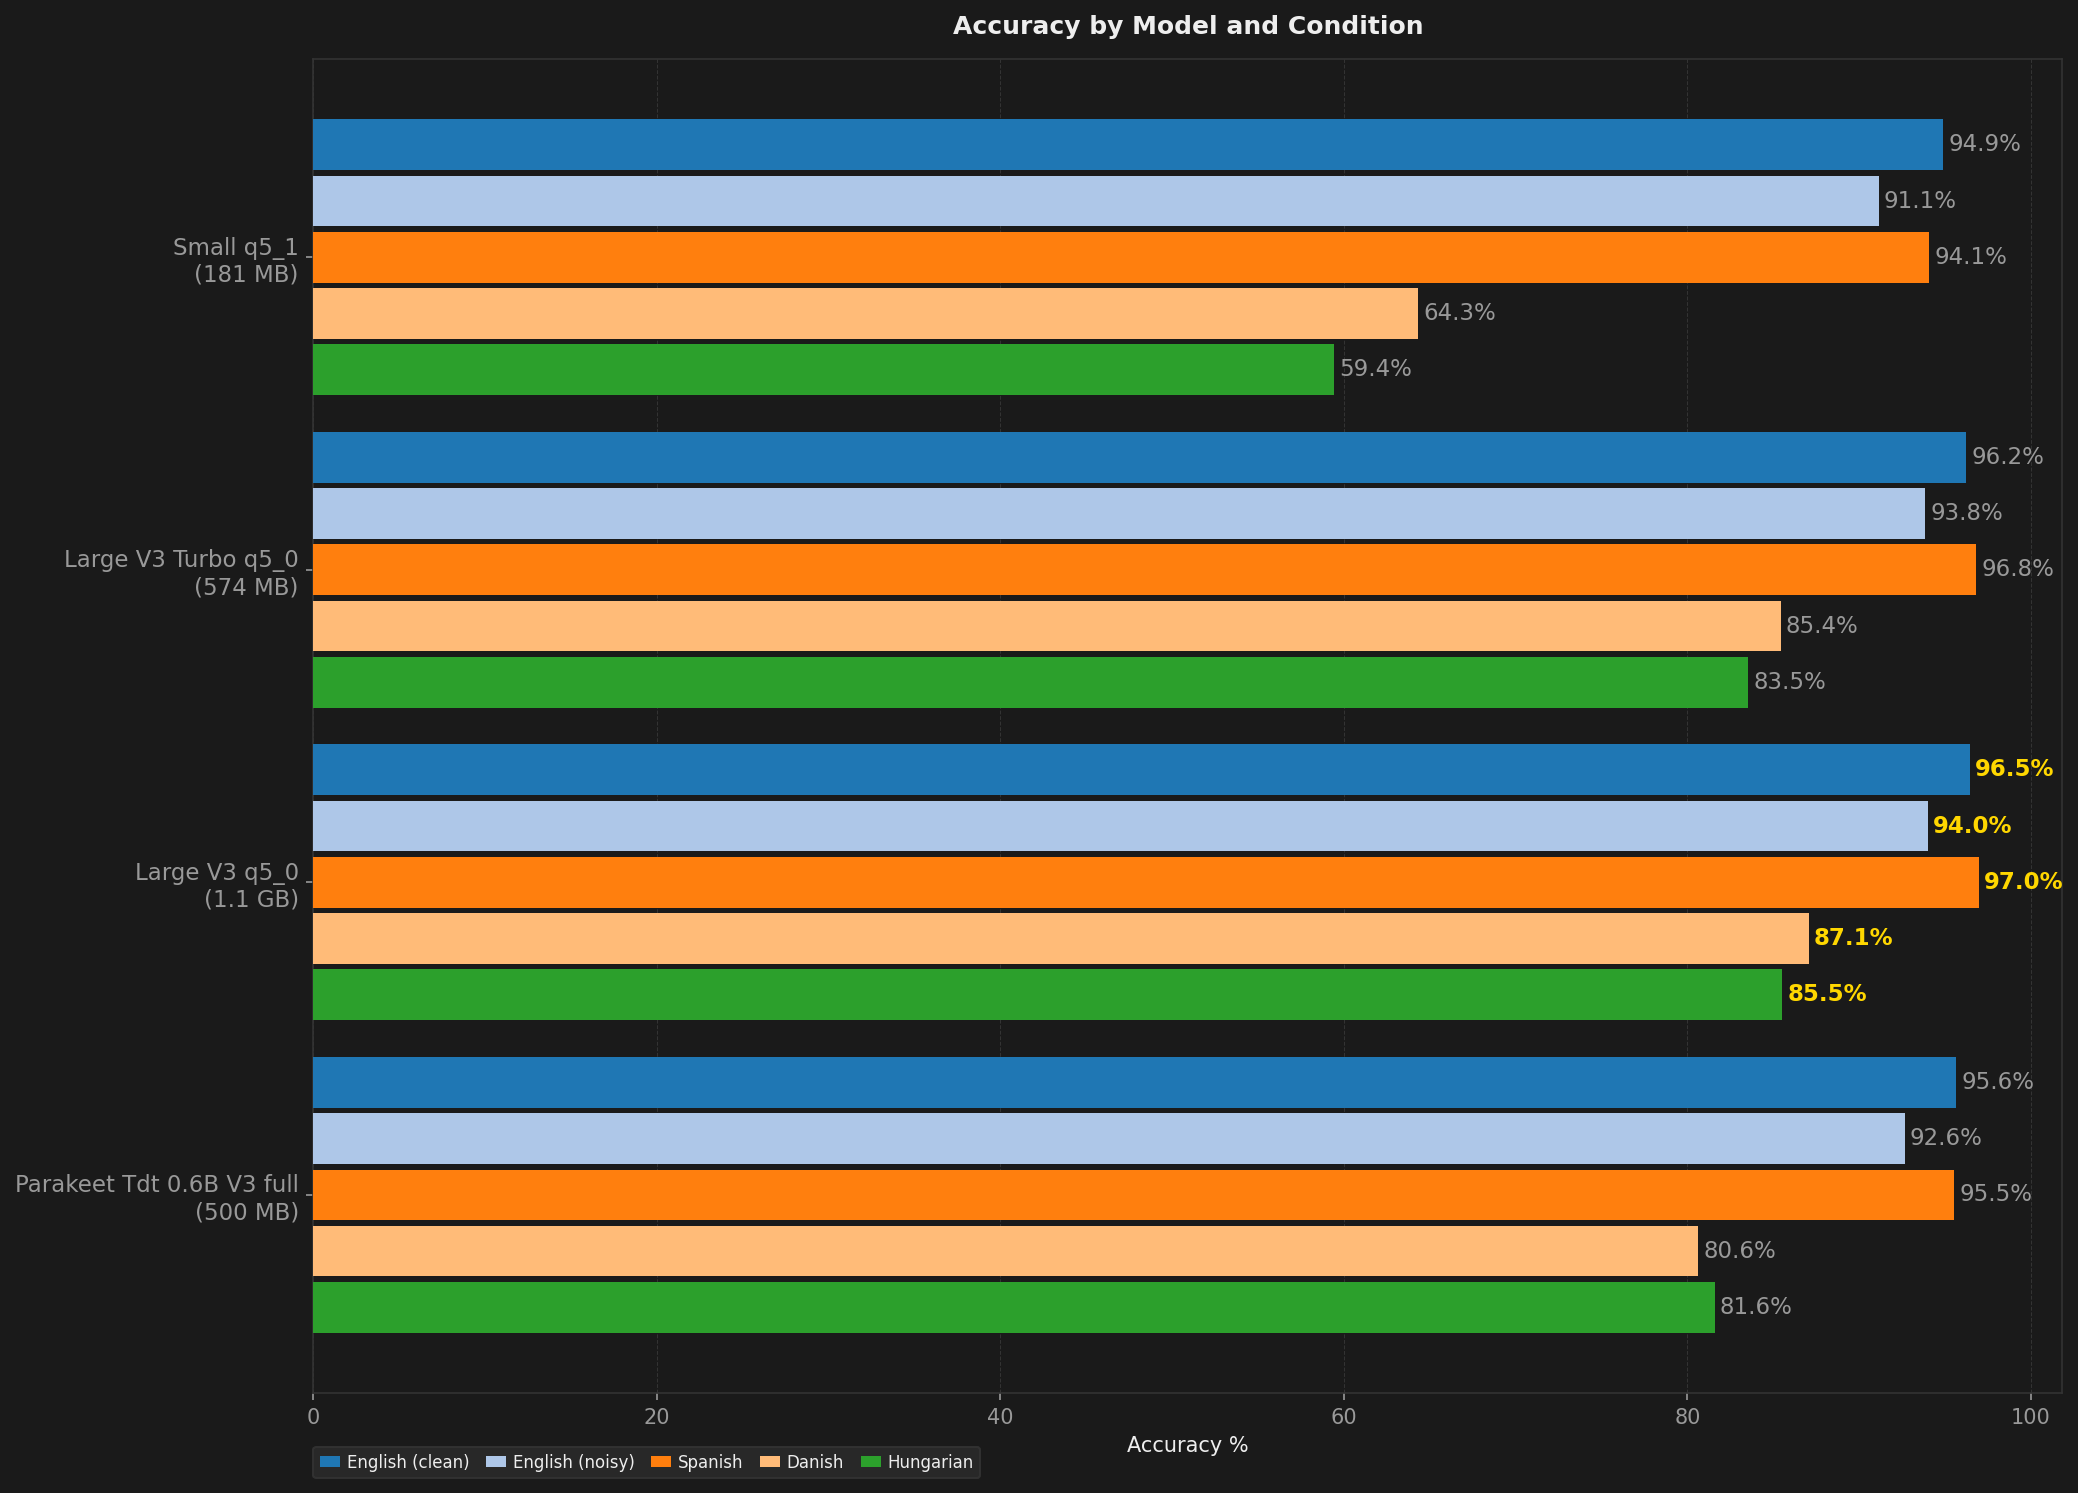
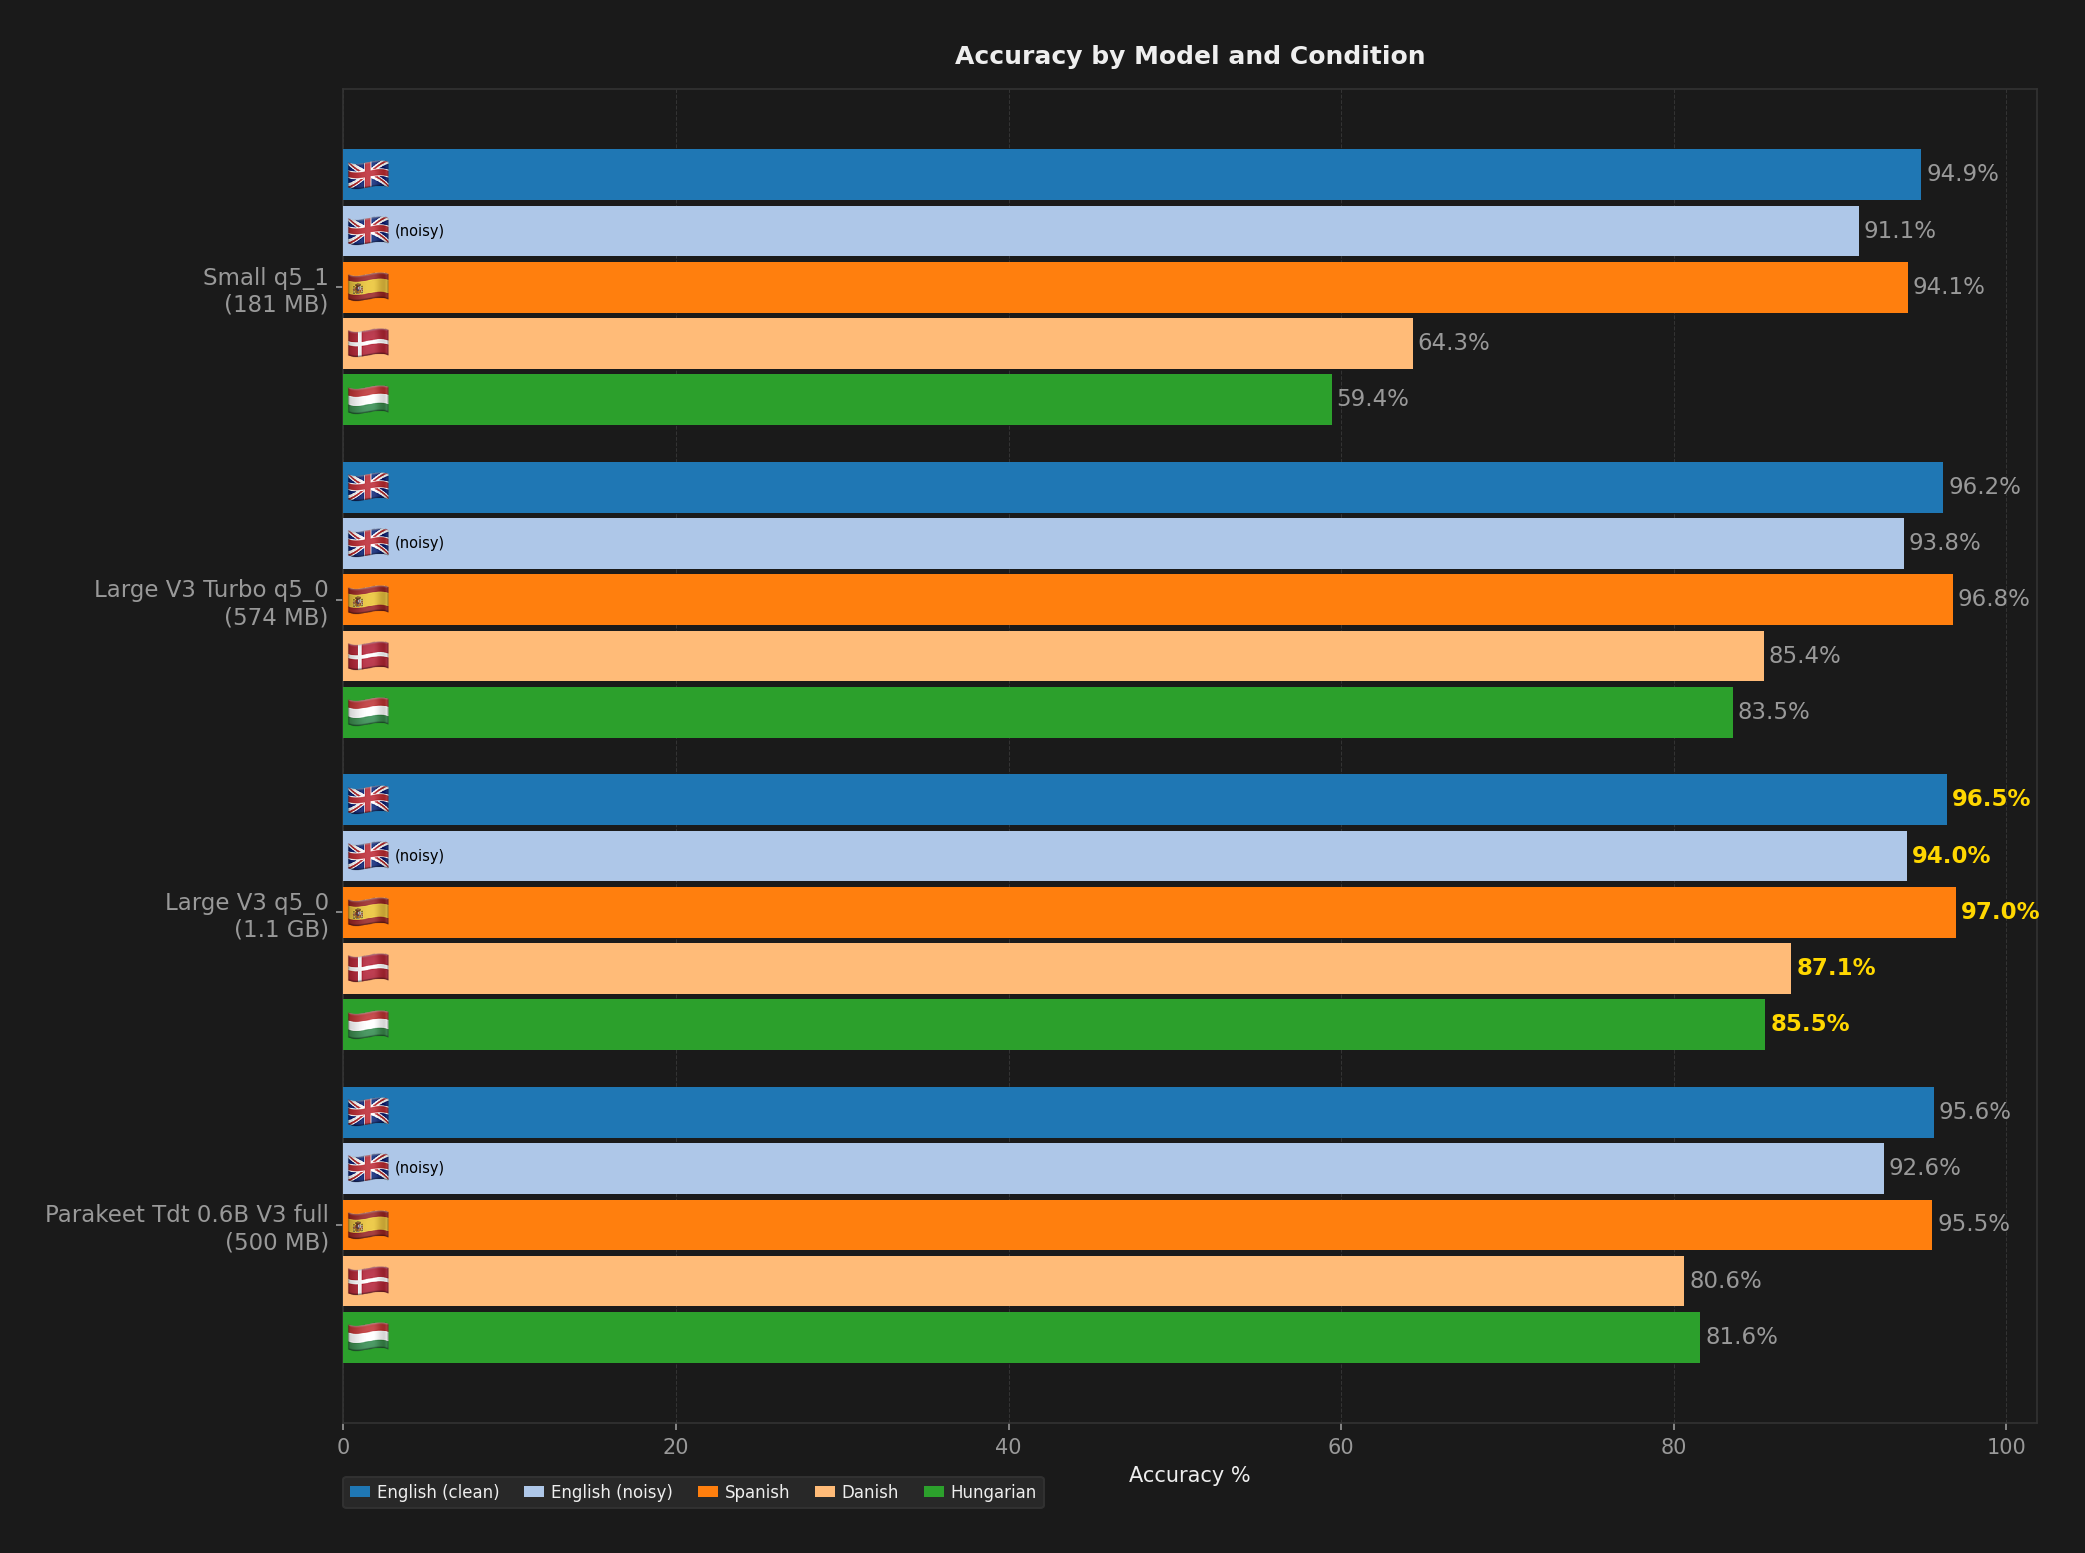
updated charts and images

diff --git a/benchmarks/stt/charts.py b/benchmarks/stt/charts.py
@@ -16,6 +16,49 @@ CONDITION_LABELS = {
     "hu_hu": "Hungarian",
 }
 
+CONDITION_FLAGS = {
+    "English (clean)": "\U0001f1ec\U0001f1e7",
+    "English (noisy)": "\U0001f1ec\U0001f1e7",
+    "Spanish": "\U0001f1ea\U0001f1f8",
+    "Danish": "\U0001f1e9\U0001f1f0",
+    "Hungarian": "\U0001f1ed\U0001f1fa",
+}
+
+_flag_cache: dict[str, "np.ndarray"] = {}
+
+
+def _render_flag(emoji: str) -> "np.ndarray | None":
+    if emoji in _flag_cache:
+        return _flag_cache[emoji]
+    import subprocess, tempfile, os
+    from PIL import Image
+    tmp = tempfile.mktemp(suffix=".png")
+    swift = f'''
+import AppKit
+let font = NSFont.systemFont(ofSize: 36)
+let attrs: [NSAttributedString.Key: Any] = [.font: font]
+let str = NSAttributedString(string: "{emoji}", attributes: attrs)
+let size = str.size()
+let img = NSImage(size: size)
+img.lockFocus()
+str.draw(at: .zero)
+img.unlockFocus()
+let tiff = img.tiffRepresentation!
+let rep = NSBitmapImageRep(data: tiff)!
+let png = rep.representation(using: .png, properties: [:])!
+try! png.write(to: URL(fileURLWithPath: "{tmp}"))
+'''
+    try:
+        subprocess.run(["swift", "-e", swift], capture_output=True, timeout=10)
+        if os.path.exists(tmp):
+            img = np.array(Image.open(tmp)) / 255.0
+            _flag_cache[emoji] = img
+            os.unlink(tmp)
+            return img
+    except Exception:
+        pass
+    return None
+
 _TAB20 = plt.cm.tab20(np.linspace(0, 1, 20))
 _TAB20B = plt.cm.tab20b(np.linspace(0, 1, 20))
 COLORS = [matplotlib.colors.to_hex(c) for c in np.vstack((_TAB20, _TAB20B))]
@@ -146,7 +189,8 @@ def generate_accuracy_bar(results: dict, out_path: Path) -> None:
         for bar, val in zip(bars, accs):
             if val > 0:
                 is_best = val == best and val > 0
-                ax.text(bar.get_width() + 0.3, bar.get_y() + bar.get_height() / 2,
+                label_x = max(bar.get_width() + 0.3, 6)
+                ax.text(label_x, bar.get_y() + bar.get_height() / 2,
                         f"{val:.1f}%", va="center", ha="left",
                         fontsize=11,
                         color=WINNER_COLOR if is_best else DARK_LABEL,
@@ -157,19 +201,52 @@ def generate_accuracy_bar(results: dict, out_path: Path) -> None:
     ax.set_title("Accuracy by Model and Condition", fontweight="bold", pad=12)
     ax.set_yticks(y)
     ax.set_yticklabels([model_label(m) for m in models], fontsize=11)
-    ax.legend(facecolor="#2a2a2a", edgecolor=DARK_GRID, labelcolor=DARK_FG, fontsize=8,
-              bbox_to_anchor=(0, -0.04), loc="upper left", borderaxespad=0,
-              ncol=len(conditions), framealpha=0.9, handlelength=1.2,
-              handletextpad=0.4, columnspacing=1.0)
     ax.grid(axis="x", color=DARK_GRID, linestyle="--", linewidth=0.5, zorder=0)
     ax.set_axisbelow(True)
     ax.invert_yaxis()
+
+    from matplotlib.offsetbox import OffsetImage, AnnotationBbox
+
+    ax.legend(facecolor="#2a2a2a", edgecolor=DARK_GRID, labelcolor=DARK_FG,
+              fontsize=8, bbox_to_anchor=(0, -0.04), loc="upper left",
+              borderaxespad=0, ncol=len(conditions), framealpha=0.9,
+              handlelength=1.2, handletextpad=0.4, columnspacing=1.5)
     if has_negative:
         fig.text(0.5, -0.005, "* Negative accuracy values (WER > 100%) clamped to 0%",
                  ha="center", fontsize=7, color=DARK_LABEL)
 
     fig.tight_layout()
-    fig.savefig(str(out_path), dpi=150, facecolor=DARK_BG, bbox_inches="tight")
+    fig.subplots_adjust(left=0.18)
+
+    from matplotlib.transforms import blended_transform_factory
+    flag_trans = blended_transform_factory(ax.transAxes, ax.transData)
+    flag_ystep = 0.18
+    for mi, model in enumerate(models):
+        flag_conds = [c for c in conditions if CONDITION_FLAGS.get(c)]
+        total = len(flag_conds)
+        for idx, cond in enumerate(flag_conds):
+            flag_emoji = CONDITION_FLAGS[cond]
+            flag_img = _render_flag(flag_emoji)
+            if flag_img is None:
+                continue
+            has_data = any(p for p in points
+                          if p["model"] == model and p["condition"] == cond
+                          and (1 - p["wer"]) * 100 > 0)
+            fy = mi + (idx - (total - 1) / 2) * flag_ystep
+            im = OffsetImage(flag_img, zoom=0.3, alpha=1.0 if has_data else 0.2)
+            ab = AnnotationBbox(im, (0.015, fy), frameon=False,
+                                xycoords=flag_trans, box_alignment=(0.5, 0.5),
+                                zorder=10, clip_on=False)
+            ax.add_artist(ab)
+            if cond == "English (noisy)" and has_data:
+                ax.annotate("(noisy)", xy=(0.03, fy),
+                            xycoords=flag_trans, fontsize=7,
+                            fontweight="normal", color="#000000",
+                            ha="left", va="center",
+                            annotation_clip=False)
+
+    fig.savefig(str(out_path), dpi=150, facecolor=DARK_BG,
+                bbox_inches="tight", pad_inches=0.3)
     plt.close(fig)
     print(f"Chart: {out_path}")
 
@@ -272,7 +349,8 @@ def generate_averages_bar(results: dict, out_path: Path) -> None:
         for bar, val in zip(bars, vals):
             if val > 0:
                 is_best = val == best and val > 0
-                ax.text(bar.get_width() + 0.3, bar.get_y() + bar.get_height() / 2,
+                label_x = max(bar.get_width() + 0.3, 6)
+                ax.text(label_x, bar.get_y() + bar.get_height() / 2,
                         f"{val:.1f}%", va="center", ha="left",
                         fontsize=11,
                         color=WINNER_COLOR if is_best else DARK_LABEL,
@@ -295,7 +373,51 @@ def generate_averages_bar(results: dict, out_path: Path) -> None:
                  ha="center", fontsize=7, color=DARK_LABEL)
 
     fig.tight_layout()
-    fig.savefig(str(out_path), dpi=150, facecolor=DARK_BG, bbox_inches="tight")
+    fig.subplots_adjust(left=0.18)
+
+    from matplotlib.offsetbox import OffsetImage, AnnotationBbox
+    from matplotlib.transforms import blended_transform_factory
+    flag_trans = blended_transform_factory(ax.transAxes, ax.transData)
+    avg_indicators = [
+        ("Avg Overall", None, "(overall)"),
+        ("Avg English", "\U0001f1ec\U0001f1e7", None),
+        ("Avg Multilingual", "\U0001f30d", None),
+    ]
+    flag_ystep = 0.30
+    for mi, model in enumerate(models):
+        model_points = [p for p in points if p["model"] == model]
+        total = len(avg_indicators)
+        def avg_acc(subset):
+            accs = [(1 - p["wer"]) * 100 for p in subset]
+            return sum(accs) / len(accs) if accs else 0
+
+        for idx, (cat, emoji, text_label) in enumerate(avg_indicators):
+            if cat == "Avg English":
+                raw = avg_acc([p for p in model_points if p["condition"] in english_keys])
+            elif cat == "Avg Multilingual":
+                raw = avg_acc([p for p in model_points if p["condition"] not in english_keys])
+            else:
+                raw = avg_acc(model_points)
+            has_val = raw > 0
+            fy = mi + (idx - (total - 1) / 2) * flag_ystep
+            if text_label:
+                ax.annotate(text_label, xy=(0.020, fy),
+                            xycoords=flag_trans, fontsize=7,
+                            color="#FFFFFF" if has_val else "#555555",
+                            ha="center", va="center",
+                            annotation_clip=False)
+            elif emoji:
+                flag_img = _render_flag(emoji)
+                if flag_img is None:
+                    continue
+                im = OffsetImage(flag_img, zoom=0.3, alpha=1.0 if has_val else 0.2)
+                ab = AnnotationBbox(im, (0.015, fy), frameon=False,
+                                    xycoords=flag_trans, box_alignment=(0.5, 0.5),
+                                    zorder=10, clip_on=False)
+                ax.add_artist(ab)
+
+    fig.savefig(str(out_path), dpi=150, facecolor=DARK_BG,
+                bbox_inches="tight", pad_inches=0.3)
     plt.close(fig)
     print(f"Chart: {out_path}")
 
